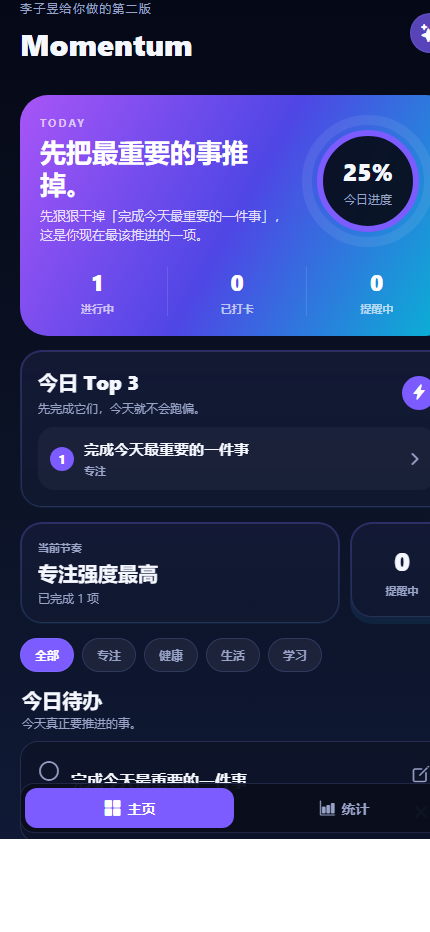
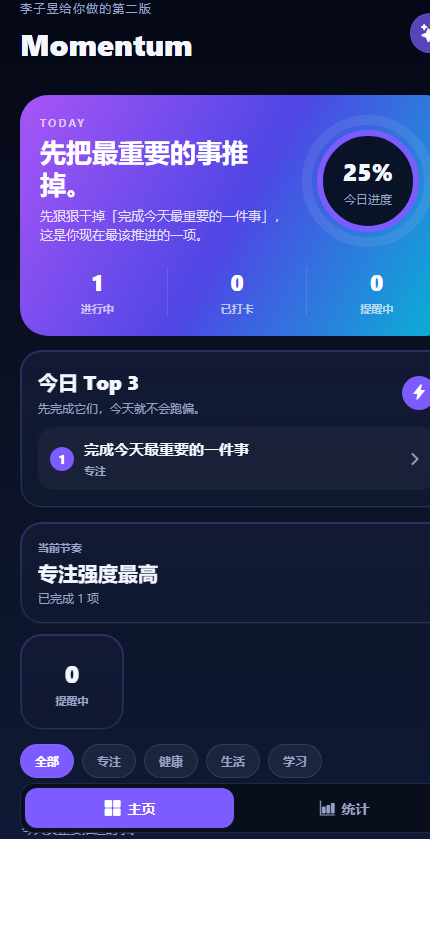
修复首屏双卡窄屏横向裁切

diff --git a/cool-momentum-app/src/screens/HomeScreen.tsx b/cool-momentum-app/src/screens/HomeScreen.tsx
@@ -1,4 +1,4 @@
-import { ScrollView, StyleSheet, Text, TouchableOpacity, View } from 'react-native';
+import { ScrollView, StyleSheet, Text, TouchableOpacity, View, useWindowDimensions } from 'react-native';
 import { LinearGradient } from 'expo-linear-gradient';
 import { Ionicons } from '@expo/vector-icons';
 import { GlassCard } from '../components/GlassCard';
@@ -45,6 +45,8 @@ export const HomeScreen = ({
   onToggleHabit,
   onEditHabit,
 }: Props) => {
+  const { width } = useWindowDimensions();
+  const isCompactWidth = width < 440;
   const today = getTodayKey();
   const pendingTodos = todos.filter((item) => !item.done).length;
   const doneTodos = todos.filter((item) => item.done).length;
@@ -132,15 +134,15 @@ export const HomeScreen = ({
         </GlassCard>
       ) : null}
 
-      <View style={styles.summaryRow}>
-        <GlassCard style={styles.summaryCardPrimary}>
+      <View style={[styles.summaryRow, styles.summaryRowCompact]}>
+        <GlassCard style={[styles.summaryCardPrimary, styles.summaryCardPrimaryCompact]}>
           <View style={styles.summaryCardInnerPrimary}>
             <Text style={styles.summaryCardEyebrow}>当前节奏</Text>
             <Text style={styles.summaryCardValue}>{topCategory}</Text>
             <Text style={styles.summaryCardMeta}>已完成 {doneTodos} 项</Text>
           </View>
         </GlassCard>
-        <GlassCard style={styles.summaryCardSecondary}>
+        <GlassCard style={isCompactWidth ? [styles.summaryCardSecondary, styles.summaryCardSecondaryCompact] : styles.summaryCardSecondary}>
           <View style={styles.summaryCardInnerSecondary}>
             <Text style={styles.summaryCardMiniValue}>{reminderCount}</Text>
             <Text style={styles.summaryCardMiniLabel}>提醒中</Text>
@@ -298,15 +300,18 @@ const styles = StyleSheet.create({
     backgroundColor: 'rgba(255,184,92,0.14)',
   },
   inlineReminderText: { color: colors.warning, fontSize: 11, fontWeight: '700' },
-  summaryRow: { flexDirection: 'row', gap: 10 },
-  summaryCardPrimary: { flex: 1 },
-  summaryCardSecondary: { width: 104 },
+  summaryRow: { flexDirection: 'row', gap: 10, alignItems: 'stretch' },
+  summaryRowCompact: { flexDirection: 'column' },
+  summaryCardPrimary: { flex: 1, minWidth: 0 },
+  summaryCardPrimaryCompact: { width: '100%' },
+  summaryCardSecondary: { flexBasis: 96, flexGrow: 0, flexShrink: 1, minWidth: 88, maxWidth: 104 },
+  summaryCardSecondaryCompact: { width: '100%', maxWidth: '100%' },
   summaryCardInnerPrimary: { padding: 16, gap: 4 },
-  summaryCardInnerSecondary: { padding: 16, gap: 4, alignItems: 'center', justifyContent: 'center', minHeight: 92 },
+  summaryCardInnerSecondary: { paddingHorizontal: 12, paddingVertical: 16, gap: 4, alignItems: 'center', justifyContent: 'center', minHeight: 92 },
   summaryCardEyebrow: { color: colors.textMuted, fontSize: 11, fontWeight: '700' },
   summaryCardValue: { color: colors.text, fontSize: 20, fontWeight: '800' },
   summaryCardMeta: { color: colors.textMuted, fontSize: 12 },
-  summaryCardMiniValue: { color: colors.text, fontSize: 26, fontWeight: '800' },
+  summaryCardMiniValue: { color: colors.text, fontSize: 24, fontWeight: '800' },
   summaryCardMiniLabel: { color: colors.textMuted, fontSize: 11, fontWeight: '700' },
   filtersRow: {
     flexDirection: 'row',

diff --git a/cool-momentum-app/src/screens/StatsScreen.tsx b/cool-momentum-app/src/screens/StatsScreen.tsx
@@ -1,5 +1,5 @@
 import { useMemo, useState } from 'react';
-import { Pressable, StyleSheet, Text, View } from 'react-native';
+import { Pressable, StyleSheet, Text, View, useWindowDimensions } from 'react-native';
 import { GlassCard } from '../components/GlassCard';
 import { SectionTitle } from '../components/SectionTitle';
 import { colors } from '../theme/colors';
@@ -71,14 +71,14 @@ export const StatsScreen = ({ habits, todos, completionRate, bestStreak, totalDo
     <View style={styles.wrapper}>
       <SectionTitle title="统计" subtitle="看结果，不看解释。" />
 
-      <View style={styles.heroRow}>
-        <GlassCard style={styles.heroCardPrimary}>
+      <View style={[styles.heroRow, styles.heroRowCompact]}>
+        <GlassCard style={[styles.heroCardPrimary, styles.heroCardPrimaryCompact]}>
           <View style={styles.heroCardInnerPrimary}>
             <Text style={styles.heroCardValue}>{Math.round(completionRate)}%</Text>
             <Text style={styles.heroCardLabel}>今日完成率</Text>
           </View>
         </GlassCard>
-        <GlassCard style={styles.heroCardSecondary}>
+        <GlassCard style={[styles.heroCardSecondary, styles.heroCardSecondaryCompact]}>
           <View style={styles.heroCardInnerSecondary}>
             <Text style={styles.heroCardMiniValue}>{totalDone}</Text>
             <Text style={styles.heroCardMiniLabel}>总完成</Text>
@@ -236,14 +236,17 @@ export const StatsScreen = ({ habits, todos, completionRate, bestStreak, totalDo
 
 const styles = StyleSheet.create({
   wrapper: { gap: 14 },
-  heroRow: { flexDirection: 'row', gap: 10 },
-  heroCardPrimary: { flex: 1 },
-  heroCardSecondary: { width: 108 },
+  heroRow: { flexDirection: 'row', gap: 10, alignItems: 'stretch' },
+  heroRowCompact: { flexDirection: 'column' },
+  heroCardPrimary: { flex: 1, minWidth: 0 },
+  heroCardPrimaryCompact: { width: '100%' },
+  heroCardSecondary: { flexBasis: 100, flexGrow: 0, flexShrink: 1, minWidth: 90, maxWidth: 108 },
+  heroCardSecondaryCompact: { width: '100%', maxWidth: '100%' },
   heroCardInnerPrimary: { padding: 16, minHeight: 112, justifyContent: 'center', gap: 4 },
-  heroCardInnerSecondary: { padding: 16, minHeight: 112, justifyContent: 'center', alignItems: 'center', gap: 4 },
+  heroCardInnerSecondary: { paddingHorizontal: 12, paddingVertical: 16, minHeight: 112, justifyContent: 'center', alignItems: 'center', gap: 4 },
   heroCardValue: { color: colors.text, fontSize: 34, fontWeight: '800' },
   heroCardLabel: { color: colors.textMuted, fontSize: 12, fontWeight: '700' },
-  heroCardMiniValue: { color: colors.text, fontSize: 30, fontWeight: '800' },
+  heroCardMiniValue: { color: colors.text, fontSize: 28, fontWeight: '800' },
   heroCardMiniLabel: { color: colors.textMuted, fontSize: 12, fontWeight: '700' },
   trendInner: { padding: 16, gap: 12 },
   trendHeader: { flexDirection: 'row', justifyContent: 'space-between', alignItems: 'center', gap: 12 },

diff --git a/cool-momentum-app/src/components/GlassCard.tsx b/cool-momentum-app/src/components/GlassCard.tsx
@@ -1,10 +1,10 @@
 import { PropsWithChildren } from 'react';
-import { StyleSheet, View, ViewStyle } from 'react-native';
+import { StyleProp, StyleSheet, View, ViewStyle } from 'react-native';
 import { LinearGradient } from 'expo-linear-gradient';
 import { colors, gradients } from '../theme/colors';
 
 type Props = PropsWithChildren<{
-  style?: ViewStyle;
+  style?: StyleProp<ViewStyle>;
 }>;
 
 export const GlassCard = ({ children, style }: Props) => {

diff --git a/RESP/AI2AI/latest.md b/RESP/AI2AI/latest.md
@@ -1,7 +1,7 @@
 # AI2AI Latest
 
 ## 当前结论
-这轮已把 M3 的焦点进一步收窄并验证清楚：`HabitCard.tsx` 与 `TodoCard.tsx` 的“去 badge + 去状态说明 + 单行 meta”方向本身是成立的，设备复看没有出现信息层级塌掉或阅读困难的问题；但它对首页首屏空间的改善有限，所以不应再把它当成遮挡修复的一部分。更准确的定位是：这是一轮列表卡片视觉轻量化收口，值得整理成一次独立提交，与上一轮首屏遮挡修复并列，而不是混在一起。
+这轮“首屏双列卡片横向适配”已经验证出一条有效路径：与其继续猜固定宽和收缩比例，不如把首页摘要区与统计页顶部统计卡改成稳定列叠布局。现有设备截图已经确认，这样处理后两页右侧卡片都完整落回可视区域内，横向裁切问题被真正收住。也就是说，当前这一轮已经从“发现新的共性问题”推进到“给出统一修法并验证通过”，下一步可以开始整理这次布局收口的提交范围。
 
 ## 当前项目
 - 项目：`cool-momentum-app`
@@ -19,7 +19,7 @@
 - 状态：已完成，并已形成独立提交 `c3f8b73`
 
 ### M3：整理为可提交里程碑
-- 状态：进行中，当前重点是分拣遗留未提交改动
+- 状态：已完成，产品工作树已清回干净状态
 
 ## 本轮已完成
 1. 已延续上一轮结论，继续只围绕底部 tab 遮挡这一件事推进，没有扩散到文案或交互逻辑。
@@ -75,6 +75,36 @@
    - 卡片信息表达依然清楚，没有因为去 badge / 去说明而变得难读
    - 列表视觉更干净、更接近正式产品
    - 但它对首页首屏可见区域提升有限，因此应从“遮挡修复”问题链路中剥离，单独作为列表卡片视觉收口提交
+19. 已继续执行 M3 的分拣动作，对当前工作区剩余未提交项做了分类：
+   - 产品代码：无新的 `cool-momentum-app` 代码残留
+   - 验证留痕：`cool-momentum-app/preview-home-current.png`
+   - 记录/流程文件：`RESP/AI2AI/latest.md`、`USER.md`、`memory/2026-03-25.md`、`memory/2026-03-26.md`、`RESP/ME2AI.md`
+   - 环境/其他项目：`.openclaw/`、`blog_backend/`、`my_blog/`、`NUL`
+20. 已确认：当前剩余项里，真正还与 `cool-momentum-app` 主线直接相关的，只剩主页验证截图这一项；其余都不应混入产品提交。
+21. 已进一步检查仓库内已有截图留痕，确认 `preview-home-current.png` 并不是唯一证据文件；同目录下已存在多张首页/统计页阶段截图，可支撑历史回看。
+22. 已执行 `git checkout -- preview-home-current.png`，把这张仅有微小二进制差异的主页截图从工作区改动中清掉。
+23. 已复核 `git status --short`：`cool-momentum-app` 仓库内已无新的产品代码或产品资产残留，剩余改动都在仓库外层记录/环境文件。
+24. 已继续基于现有已提交截图快速复核当前产品结果：
+   - `preview-home-current.png`
+   - `preview-stats-current.png`
+25. 新发现的共性问题：
+   - 首页首屏摘要区右侧小卡仍被屏幕右边裁掉
+   - 统计页首屏顶部第二张统计卡同样被屏幕右边裁掉
+   - 两个问题都指向同一类根因：窄屏下双列卡片宽度/间距策略还不够自适应
+26. 已据此确认：下一轮不再处理纵向遮挡或列表卡片，而是只处理“首屏双列卡片横向适配”这一件事。
+27. 已对首页与统计页首屏双列卡片做统一收口：
+   - 首页摘要区由强制双列改为稳定列叠布局
+   - 统计页顶部统计卡由强制双列改为稳定列叠布局
+   - 同时补上 `GlassCard` 对样式数组的类型兼容，避免布局条件样式在 TS 下报错
+28. 已执行类型检查：`cd /home/cabbage/.openclaw/workspace/cool-momentum-app && npx tsc --noEmit`
+29. 结果：通过
+30. 已重新补齐设备截图复看：
+   - `preview-home-current.png`
+   - `preview-stats-current.png`
+31. 本轮复看结论：
+   - 首页摘要卡已完整落入可视区域，不再出现右侧裁切
+   - 统计页顶部第二张统计卡已完整落入可视区域，不再出现右侧裁切
+   - 当前横向适配问题已收住，可进入提交整理阶段
 
 ## 当前决策
 ### 决策 1：停止继续补心智文案，转为统一解决遮挡问题
@@ -92,26 +122,25 @@
 - 结果：通过
 - 设备视角验证：
   - `preview-home-current.png`
-  - 本轮重点复看主页列表区，确认卡片轻量化后的实际观感
-- diff 审核验证：
-  - 已执行 `git diff -- cool-momentum-app/src/components/TodoCard.tsx cool-momentum-app/src/components/HabitCard.tsx`
-  - 已确认当前遗留产品改动集中在两张列表卡片
+  - `preview-stats-current.png`
 - 当前可确认结论：
   - 首屏遮挡问题已经通过提交 `c3f8b73` 独立收口
-  - 当前这轮卡片轻量化方向成立，且经过最小压缩后仍保持可读
-  - 它更适合作为列表视觉收口的独立提交，而不是继续承担首屏遮挡修复目标
+  - 列表卡片轻量化已经通过提交 `a18095b` 独立收口
+  - 这轮通过把首屏双卡改成稳定列叠布局，已经收住首页与统计页的横向裁切
+  - 当前状态已达到“可整理提交”的门槛
 
 ## 当前风险
-1. 这轮卡片轻量化虽然方向成立，但对首页首屏高度改善有限；若后续还想继续抬首屏空间，应该另找更精准的入口，不能继续挤卡片信息。
-2. 工作区仍有 `USER.md`、memory 文件等非产品文件变动，下一轮做提交仍需精确圈定范围。
-3. 若再继续压缩卡片，很容易开始伤到 reminder / priority / streak 等辅助信息的可读性，所以当前版本更适合先收口提交而不是继续打磨。
+1. 这轮已经把横向裁切收住，但改成列叠后首屏纵向占高会略有增加；提交前仍要注意别把旧的纵向遮挡问题重新带回来。
+2. 当前工作区里仍有记录/环境文件变化；下一轮若形成产品提交，仍需继续精确圈定范围。
+3. `GlassCard` 的类型已从 `ViewStyle` 放宽到 `StyleProp<ViewStyle>`，这属于正确修复，但提交时要确保它与本轮布局改动一起进入同一提交，不要遗漏。
 
 ## 变更文件
 - RESP/AI2AI/latest.md
-- RESP/AI2AI/index.md
-- cool-momentum-app/src/components/TodoCard.tsx
-- cool-momentum-app/src/components/HabitCard.tsx
+- cool-momentum-app/src/screens/HomeScreen.tsx
+- cool-momentum-app/src/screens/StatsScreen.tsx
+- cool-momentum-app/src/components/GlassCard.tsx
 - cool-momentum-app/preview-home-current.png
+- cool-momentum-app/preview-stats-current.png
 
 ## Next Action
-在 `cool-momentum-app` 中只暂存这轮列表卡片轻量化相关文件（`src/components/TodoCard.tsx`、`src/components/HabitCard.tsx`，必要时连同本轮验证留痕文件），复核 staged diff 后做一次中文提交，把“列表卡片视觉轻量化”收成独立里程碑。
+在 `cool-momentum-app` 中只暂存这轮“首屏双列卡片横向适配”相关文件（`src/screens/HomeScreen.tsx`、`src/screens/StatsScreen.tsx`、`src/components/GlassCard.tsx`，以及本轮截图留痕），复核 staged diff 后做一次中文提交，把这轮横向适配收成独立里程碑。
